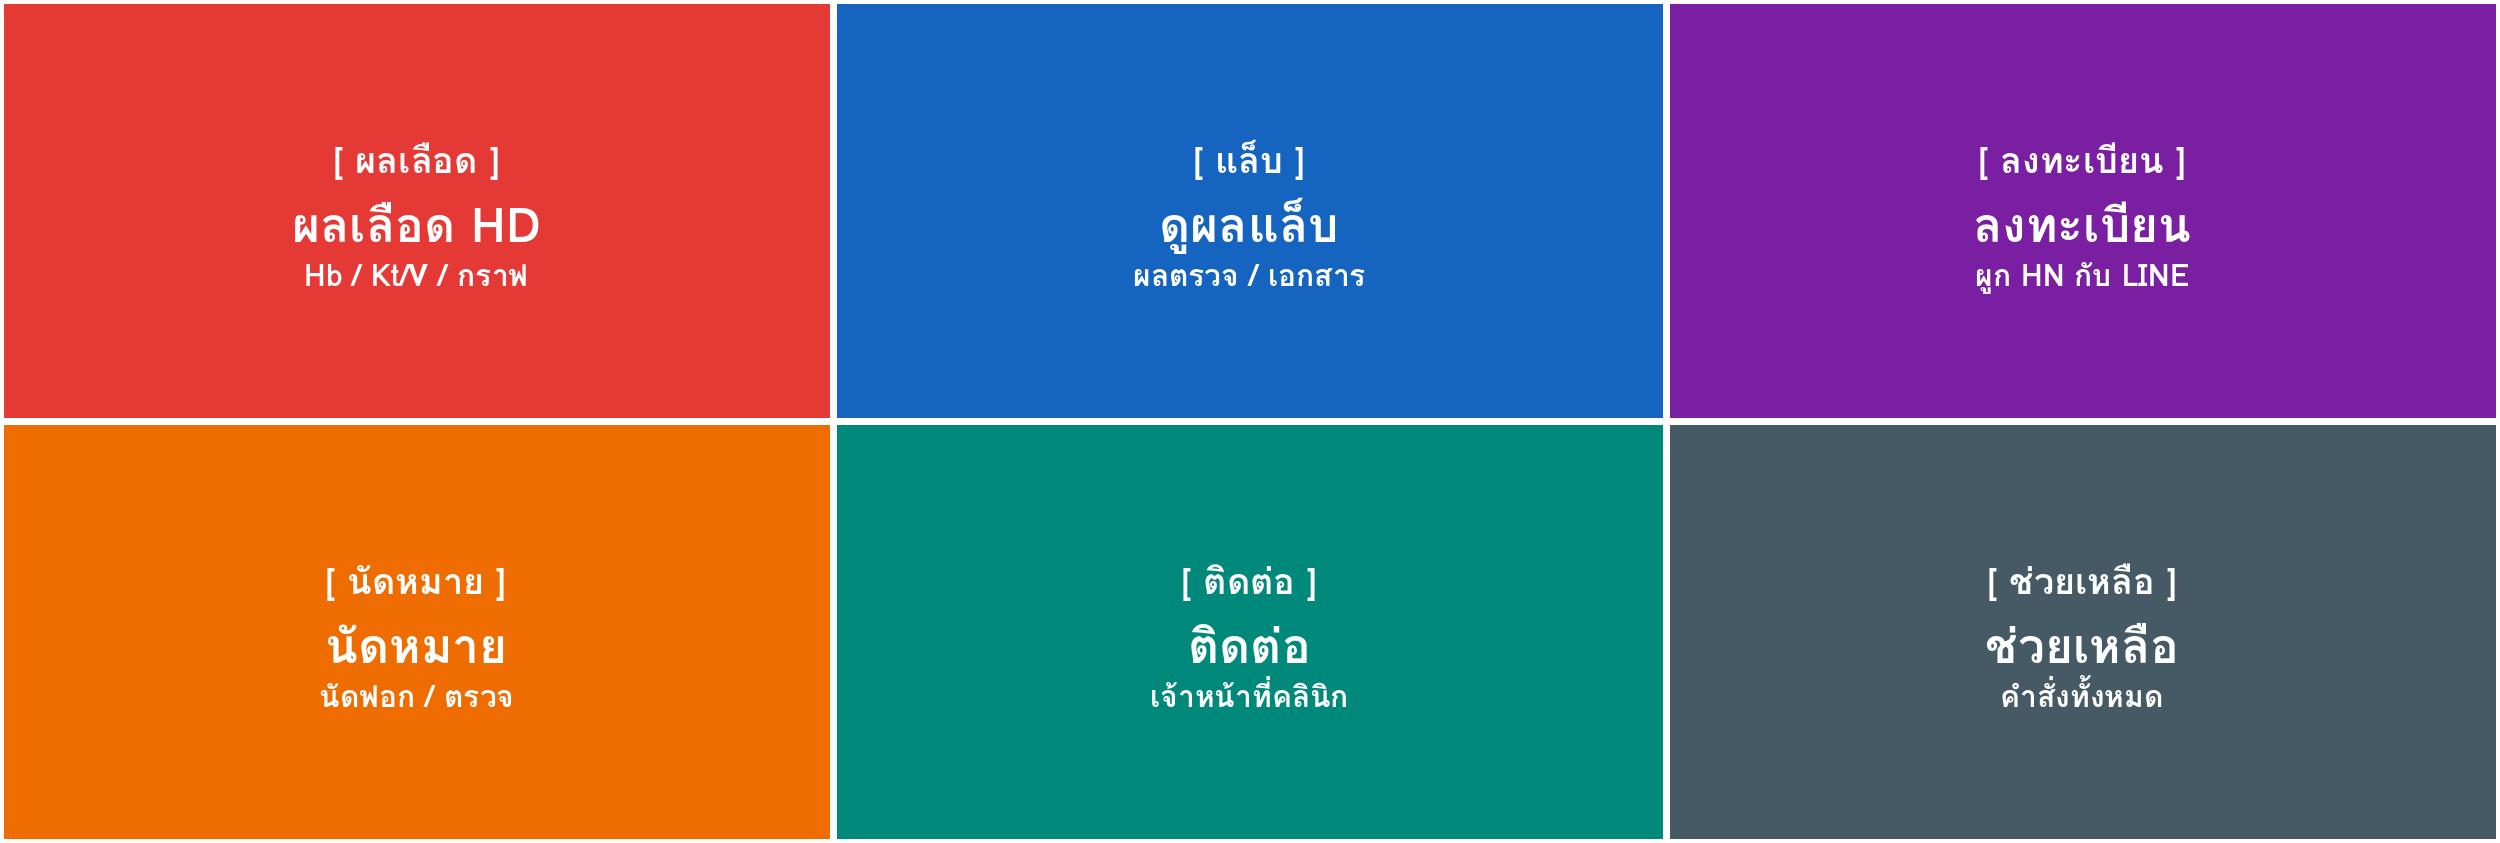
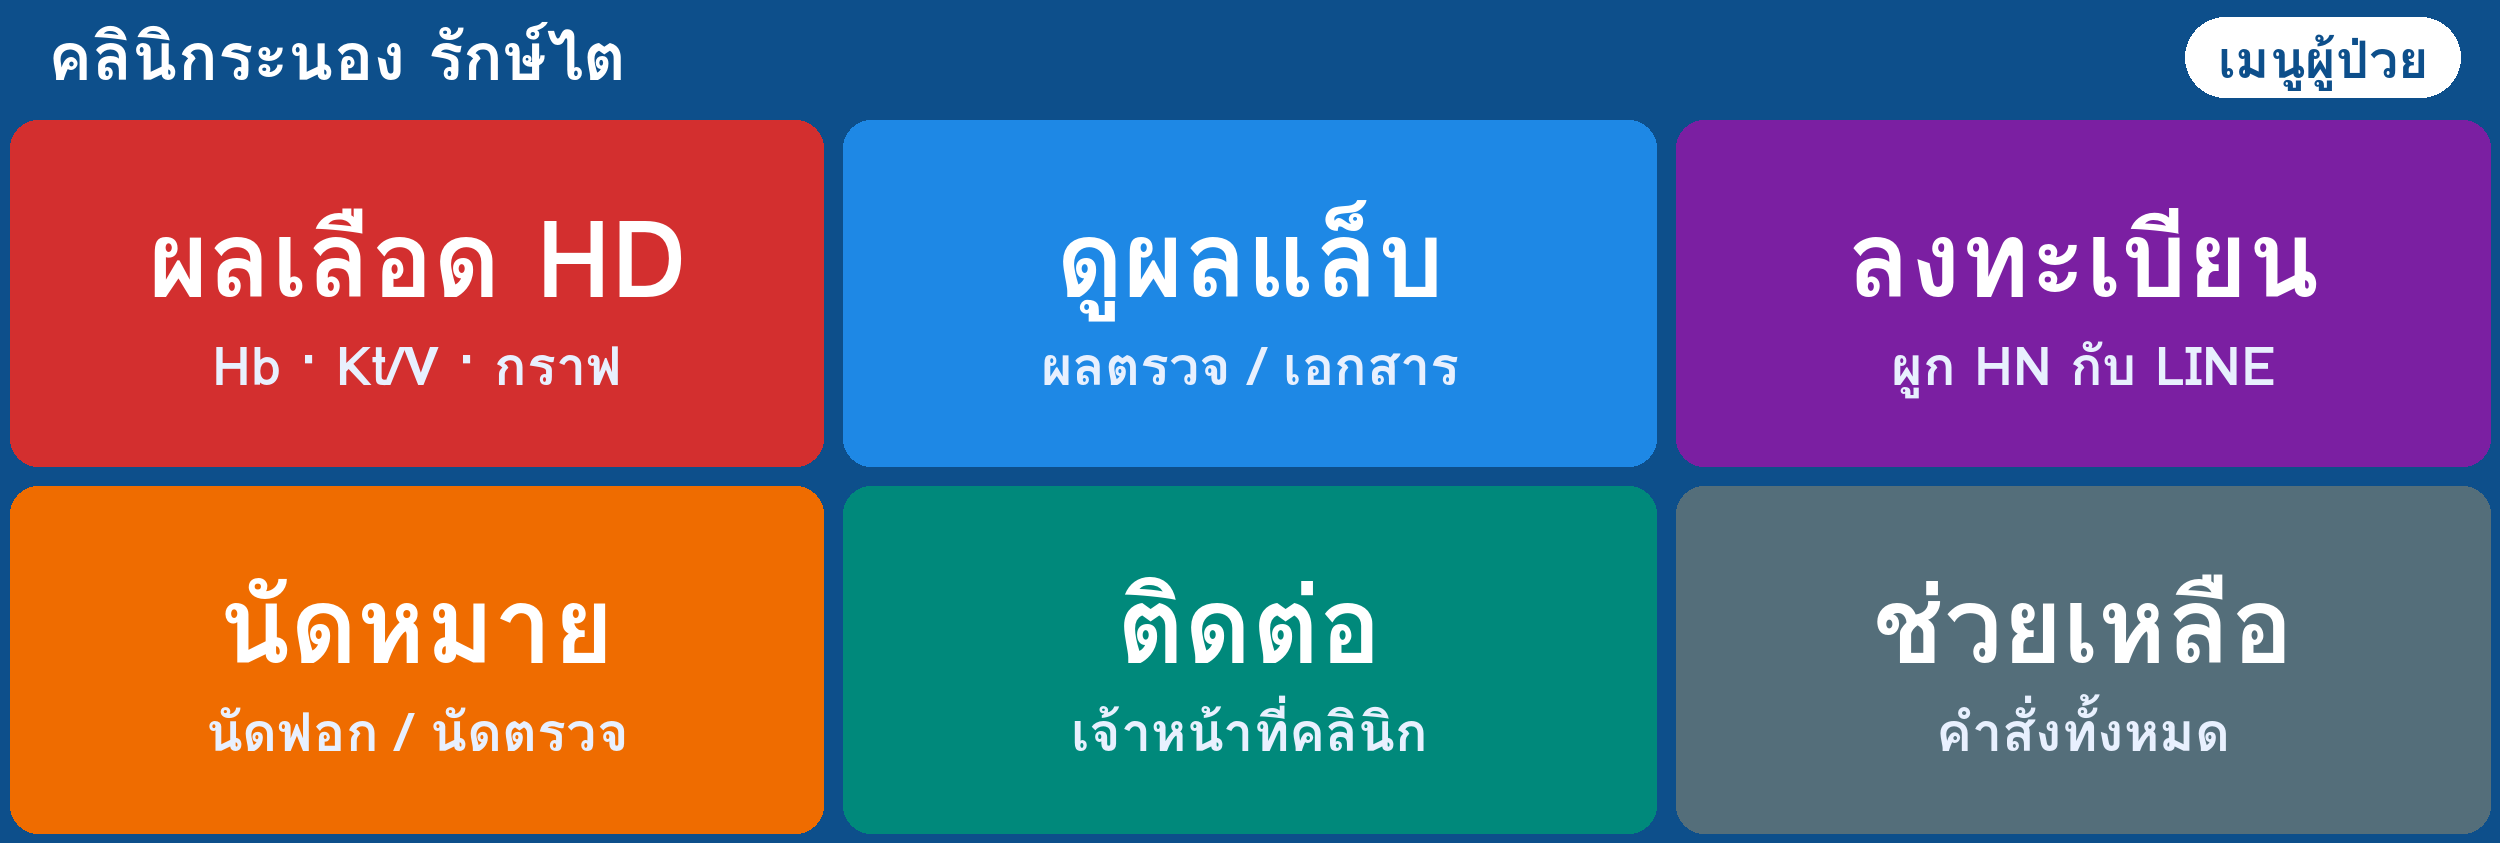
Rich Menu v6: clear header (STAFF / เมนูผู้ป่วย), large labels, no tofu
- New 2500x843 images for Staff / Sub / Patient generated by
  scripts/make_rich_menus.py: 110px header with menu name + big badge,
  labels ~3x larger, no emoji (rendered as squares before)
- Tap areas shifted below the header to match the images
- Deploy log now reports when an image upload fails
- Button actions unchanged

Claude-Session: https://claude.ai/code/session_01QfGEmSfNMhnSNbs6dYF3p8

diff --git a/server.py b/server.py
@@ -8016,8 +8016,10 @@ def handle_search_command(
             return r.status_code == 200
 
         try:
+            # แถบหัว 110px บอกชนิดเมนู (ไม่มีปุ่ม) — ตรงกับ scripts/make_rich_menus.py
             _col_w = 833
-            _row_h = 421
+            _top = 110
+            _row_h = 366
 
             # === Step 0: Cleanup ===
             _rm_cleanup()
@@ -8025,76 +8027,76 @@ def handle_search_command(
 
             # === Step 1: Staff Menu ===
             _staff_areas = [
-                {"bounds": {"x": 0, "y": 0, "width": _col_w, "height": _row_h},
+                {"bounds": {"x": 0, "y": _top, "width": _col_w, "height": _row_h},
                  "action": {"type": "uri", "label": "ดูผลแล็บ",
                             "uri": _liff_url or f"{_RENDER_BASE}/liff"}},
-                {"bounds": {"x": _col_w, "y": 0, "width": _col_w + 1, "height": _row_h},
+                {"bounds": {"x": _col_w, "y": _top, "width": _col_w + 1, "height": _row_h},
                  "action": {"type": "message", "label": "ส่งเอกสาร", "text": "ส่งเอกสาร"}},
-                {"bounds": {"x": _col_w * 2 + 1, "y": 0, "width": _col_w, "height": _row_h},
+                {"bounds": {"x": _col_w * 2 + 1, "y": _top, "width": _col_w, "height": _row_h},
                  "action": {"type": "message", "label": "รอบฟอก", "text": "รอบฟอกวันนี้"}},
-                {"bounds": {"x": 0, "y": _row_h, "width": _col_w, "height": _row_h + 1},
+                {"bounds": {"x": 0, "y": _top + _row_h, "width": _col_w, "height": _row_h + 1},
                  "action": {"type": "message", "label": "วิเคราะห์", "text": "วิเคราะห์"}},
-                {"bounds": {"x": _col_w, "y": _row_h, "width": _col_w + 1, "height": _row_h + 1},
+                {"bounds": {"x": _col_w, "y": _top + _row_h, "width": _col_w + 1, "height": _row_h + 1},
                  "action": {"type": "message", "label": "ดูนัด", "text": "นัดหมาย"}},
-                {"bounds": {"x": _col_w * 2 + 1, "y": _row_h, "width": _col_w, "height": _row_h + 1},
+                {"bounds": {"x": _col_w * 2 + 1, "y": _top + _row_h, "width": _col_w, "height": _row_h + 1},
                  "action": {"type": "richmenuswitch",
                             "richMenuAliasId": "richmenu-alias-sub",
                             "data": "switch-to-sub"}},
             ]
-            _staff_id, _err = _rm_create("Staff Menu v4", _staff_areas)
+            _staff_id, _err = _rm_create("Staff Menu v6", _staff_areas)
             if _err:
                 return f"❌ {_err}"
-            _rm_upload_img(_staff_id, "rich_menu_staff.png")
-            _log.append(f"👨⚕ Staff: ✅ {_staff_id[:12]}...")
+            _img_ok = _rm_upload_img(_staff_id, "rich_menu_staff.png")
+            _log.append(f"👨⚕ Staff: ✅ {_staff_id[:12]}..." + ("" if _img_ok else " (⚠ อัปโหลดรูปไม่สำเร็จ)"))
 
             # === Step 2: Patient Menu ===
             # ลิงก์ผลเลือด HD (LIFF path /hd-labs) — ผู้ป่วยกดแล้วเปิดผลเลือดทันที
             _hd_labs_url = (f"https://liff.line.me/{_liff_id}/hd-labs" if _liff_id
                             else f"{_RENDER_BASE}/liff/hd-labs")
             _patient_areas = [
-                {"bounds": {"x": 0, "y": 0, "width": _col_w, "height": _row_h},
+                {"bounds": {"x": 0, "y": _top, "width": _col_w, "height": _row_h},
                  "action": {"type": "uri", "label": "🩸 ผลเลือด HD",
                             "uri": _hd_labs_url}},
-                {"bounds": {"x": _col_w, "y": 0, "width": _col_w + 1, "height": _row_h},
+                {"bounds": {"x": _col_w, "y": _top, "width": _col_w + 1, "height": _row_h},
                  "action": {"type": "uri", "label": "ดูผลแล็บ/เอกสาร",
                             "uri": _liff_url or f"{_RENDER_BASE}/liff"}},
-                {"bounds": {"x": _col_w * 2 + 1, "y": 0, "width": _col_w, "height": _row_h},
+                {"bounds": {"x": _col_w * 2 + 1, "y": _top, "width": _col_w, "height": _row_h},
                  "action": {"type": "message", "label": "ลงทะเบียน", "text": "ลงทะเบียน"}},
-                {"bounds": {"x": 0, "y": _row_h, "width": _col_w, "height": _row_h + 1},
+                {"bounds": {"x": 0, "y": _top + _row_h, "width": _col_w, "height": _row_h + 1},
                  "action": {"type": "message", "label": "นัดหมาย", "text": "นัดหมาย"}},
-                {"bounds": {"x": _col_w, "y": _row_h, "width": _col_w + 1, "height": _row_h + 1},
+                {"bounds": {"x": _col_w, "y": _top + _row_h, "width": _col_w + 1, "height": _row_h + 1},
                  "action": {"type": "message", "label": "ติดต่อ", "text": "ติดต่อเจ้าหน้าที่"}},
-                {"bounds": {"x": _col_w * 2 + 1, "y": _row_h, "width": _col_w, "height": _row_h + 1},
+                {"bounds": {"x": _col_w * 2 + 1, "y": _top + _row_h, "width": _col_w, "height": _row_h + 1},
                  "action": {"type": "message", "label": "ช่วยเหลือ", "text": "ช่วยเหลือ"}},
             ]
-            _patient_id, _err = _rm_create("Patient Menu v5", _patient_areas)
+            _patient_id, _err = _rm_create("Patient Menu v6", _patient_areas)
             if _err:
                 return f"❌ {_err}"
-            _rm_upload_img(_patient_id, "rich_menu_patient.png")
-            _log.append(f"🧑🤝🧑 Patient: ✅ {_patient_id[:12]}...")
+            _img_ok = _rm_upload_img(_patient_id, "rich_menu_patient.png")
+            _log.append(f"🧑🤝🧑 Patient: ✅ {_patient_id[:12]}..." + ("" if _img_ok else " (⚠ อัปโหลดรูปไม่สำเร็จ)"))
 
             # === Step 3: Sub Menu ===
             _sub_areas = [
-                {"bounds": {"x": 0, "y": 0, "width": _col_w, "height": _row_h},
+                {"bounds": {"x": 0, "y": _top, "width": _col_w, "height": _row_h},
                  "action": {"type": "richmenuswitch",
                             "richMenuAliasId": "richmenu-alias-staff",
                             "data": "switch-to-staff"}},
-                {"bounds": {"x": _col_w, "y": 0, "width": _col_w + 1, "height": _row_h},
+                {"bounds": {"x": _col_w, "y": _top, "width": _col_w + 1, "height": _row_h},
                  "action": {"type": "message", "label": "คำสั่ง", "text": "ช่วยเหลือ"}},
-                {"bounds": {"x": _col_w * 2 + 1, "y": 0, "width": _col_w, "height": _row_h},
+                {"bounds": {"x": _col_w * 2 + 1, "y": _top, "width": _col_w, "height": _row_h},
                  "action": {"type": "message", "label": "ลงทะเบียน", "text": "ลงทะเบียน"}},
-                {"bounds": {"x": 0, "y": _row_h, "width": _col_w, "height": _row_h + 1},
+                {"bounds": {"x": 0, "y": _top + _row_h, "width": _col_w, "height": _row_h + 1},
                  "action": {"type": "message", "label": "ค้นหา", "text": "ค้นหา"}},
-                {"bounds": {"x": _col_w, "y": _row_h, "width": _col_w + 1, "height": _row_h + 1},
+                {"bounds": {"x": _col_w, "y": _top + _row_h, "width": _col_w + 1, "height": _row_h + 1},
                  "action": {"type": "message", "label": "KPI", "text": "KPI"}},
-                {"bounds": {"x": _col_w * 2 + 1, "y": _row_h, "width": _col_w, "height": _row_h + 1},
+                {"bounds": {"x": _col_w * 2 + 1, "y": _top + _row_h, "width": _col_w, "height": _row_h + 1},
                  "action": {"type": "message", "label": "ระบบ", "text": "ตรวจสอบระบบ"}},
             ]
-            _sub_id, _err = _rm_create("Sub Menu v4", _sub_areas)
+            _sub_id, _err = _rm_create("Sub Menu v6", _sub_areas)
             if _err:
                 return f"❌ {_err}"
-            _rm_upload_img(_sub_id, "rich_menu_sub.png")
-            _log.append(f"📋 Sub: ✅ {_sub_id[:12]}...")
+            _img_ok = _rm_upload_img(_sub_id, "rich_menu_sub.png")
+            _log.append(f"📋 Sub: ✅ {_sub_id[:12]}..." + ("" if _img_ok else " (⚠ อัปโหลดรูปไม่สำเร็จ)"))
 
             # === Step 4: Create Aliases ===
             _a1 = _rm_create_alias("richmenu-alias-staff", _staff_id)

diff --git a/scripts/make_rich_menus.py b/scripts/make_rich_menus.py
@@ -1,0 +1,95 @@
+"""สร้างรูป Rich Menu ทั้ง 3 ชุด (Staff / Patient / Sub) — ขนาด 2500x843
+
+ออกแบบให้อ่านง่ายบนมือถือ: แถบหัวบอกชนิดเมนูชัดเจน, ตัวหนังสือใหญ่,
+ไม่ใช้ emoji (ฟอนต์บนเซิร์ฟเวอร์ไม่มี emoji → กลายเป็นสี่เหลี่ยม)
+
+ตำแหน่งปุ่มต้องตรงกับ RM_* ใน server.py (ส่วน "ตั้งค่าเมนู"):
+  แถบหัว y 0..BANNER (ไม่มีปุ่ม), แถวบน BANNER..BANNER+ROW1, แถวล่าง ..843
+
+รัน:  python scripts/make_rich_menus.py
+"""
+import os
+from PIL import Image, ImageDraw, ImageFont
+
+W, H = 2500, 843
+BANNER = 110
+ROW1 = (H - BANNER) // 2          # 366
+COL = W // 3                      # 833
+GAP = 10
+FONT = "/usr/share/fonts/opentype/tlwg/Loma-Bold.otf"
+ROOT = os.path.dirname(os.path.dirname(os.path.abspath(__file__)))
+
+MENUS = {
+    "rich_menu_staff.png": {
+        "bg": "#0f2a44", "badge": "#ffd54f",
+        "title": "เมนูเจ้าหน้าที่", "tag": "STAFF",
+        "tiles": [
+            ("#2e9e63", "ดูผลแล็บ", "ผลแล็บ / เอกสารผู้ป่วย"),
+            ("#1e88e5", "ส่งเอกสาร", "ส่งใบแล็บ / ใบยา"),
+            ("#d32f2f", "รอบฟอก", "ตารางฟอกวันนี้"),
+            ("#6a3fb5", "วิเคราะห์", "AI วิเคราะห์แล็บ"),
+            ("#ef6c00", "ดูนัด", "นัดหมายผู้ป่วย"),
+            ("#00796b", "เพิ่มเติม  >", "คำสั่งและเครื่องมือ"),
+        ],
+    },
+    "rich_menu_sub.png": {
+        "bg": "#0f2a44", "badge": "#ffd54f",
+        "title": "เมนูเพิ่มเติม", "tag": "STAFF",
+        "tiles": [
+            ("#546e7a", "<  กลับ", "เมนูหลัก"),
+            ("#00897b", "คำสั่ง", "ดูคำสั่งทั้งหมด"),
+            ("#7b1fa2", "ลงทะเบียน", "ผูก HN กับ LINE"),
+            ("#1e88e5", "ค้นหา", "ค้นหาเอกสาร"),
+            ("#ef6c00", "KPI", "ดัชนีคุณภาพ"),
+            ("#37474f", "ระบบ", "ตรวจสอบระบบ"),
+        ],
+    },
+    "rich_menu_patient.png": {
+        "bg": "#0d4f8b", "badge": "#ffffff",
+        "title": "คลินิกระนอง รักษ์ไต", "tag": "เมนูผู้ป่วย",
+        "tiles": [
+            ("#d32f2f", "ผลเลือด HD", "Hb · Kt/V · กราฟ"),
+            ("#1e88e5", "ดูผลแล็บ", "ผลตรวจ / เอกสาร"),
+            ("#7b1fa2", "ลงทะเบียน", "ผูก HN กับ LINE"),
+            ("#ef6c00", "นัดหมาย", "นัดฟอก / นัดตรวจ"),
+            ("#00897b", "ติดต่อ", "เจ้าหน้าที่คลินิก"),
+            ("#546e7a", "ช่วยเหลือ", "คำสั่งทั้งหมด"),
+        ],
+    },
+}
+
+
+def render(spec):
+    img = Image.new("RGB", (W, H), spec["bg"])
+    d = ImageDraw.Draw(img)
+    f_title = ImageFont.truetype(FONT, 66)
+    f_tag = ImageFont.truetype(FONT, 52)
+    f_label = ImageFont.truetype(FONT, 104)
+    f_sub = ImageFont.truetype(FONT, 54)
+
+    # แถบหัว: ชื่อเมนู (ซ้าย) + ป้ายชนิดเมนู (ขวา) ตัวใหญ่ อ่านออก
+    cy = BANNER // 2 + 2
+    d.text((48, cy), spec["title"], fill="#ffffff", font=f_title, anchor="lm")
+    tw = d.textlength(spec["tag"], font=f_tag)
+    x1 = W - 40
+    x0 = x1 - tw - 64
+    d.rounded_rectangle([x0, cy - 40, x1, cy + 40], radius=40, fill=spec["badge"])
+    d.text(((x0 + x1) / 2, cy + 2), spec["tag"], fill=spec["bg"], font=f_tag, anchor="mm")
+
+    rows = [(BANNER, BANNER + ROW1), (BANNER + ROW1, H)]
+    for i, (color, label, sub) in enumerate(spec["tiles"]):
+        c, r = i % 3, i // 3
+        x0 = c * COL + GAP
+        x1 = (c + 1) * COL - GAP if c < 2 else W - GAP
+        y0, y1 = rows[r][0] + GAP, rows[r][1] - GAP
+        d.rounded_rectangle([x0, y0, x1, y1], radius=28, fill=color)
+        mx, my = (x0 + x1) / 2, (y0 + y1) / 2
+        d.text((mx, my - 34), label, fill="#ffffff", font=f_label, anchor="mm")
+        d.text((mx, my + 72), sub, fill="#e8f0fe", font=f_sub, anchor="mm")
+    return img
+
+
+if __name__ == "__main__":
+    for name, spec in MENUS.items():
+        render(spec).save(os.path.join(ROOT, name), optimize=True)
+        print("saved", name)
